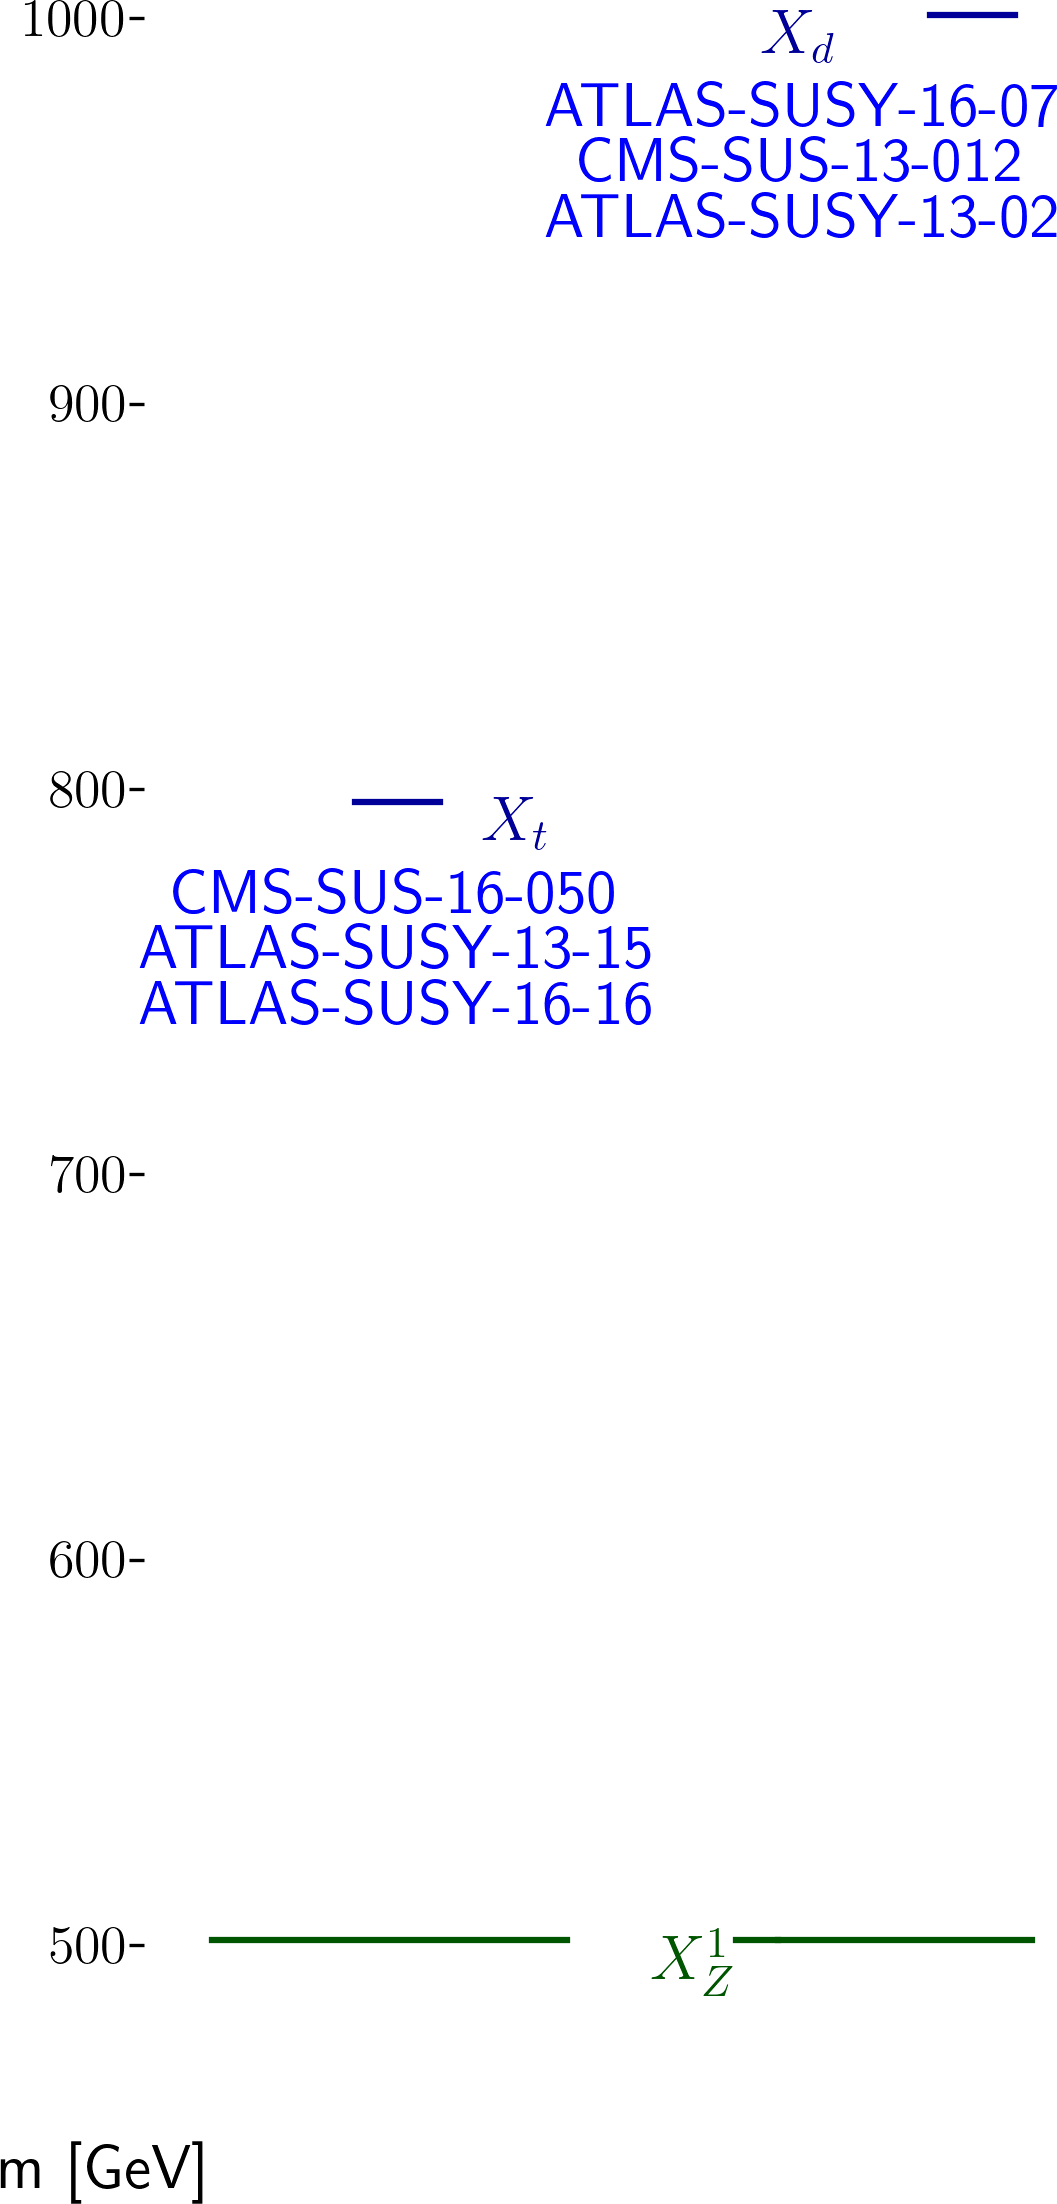
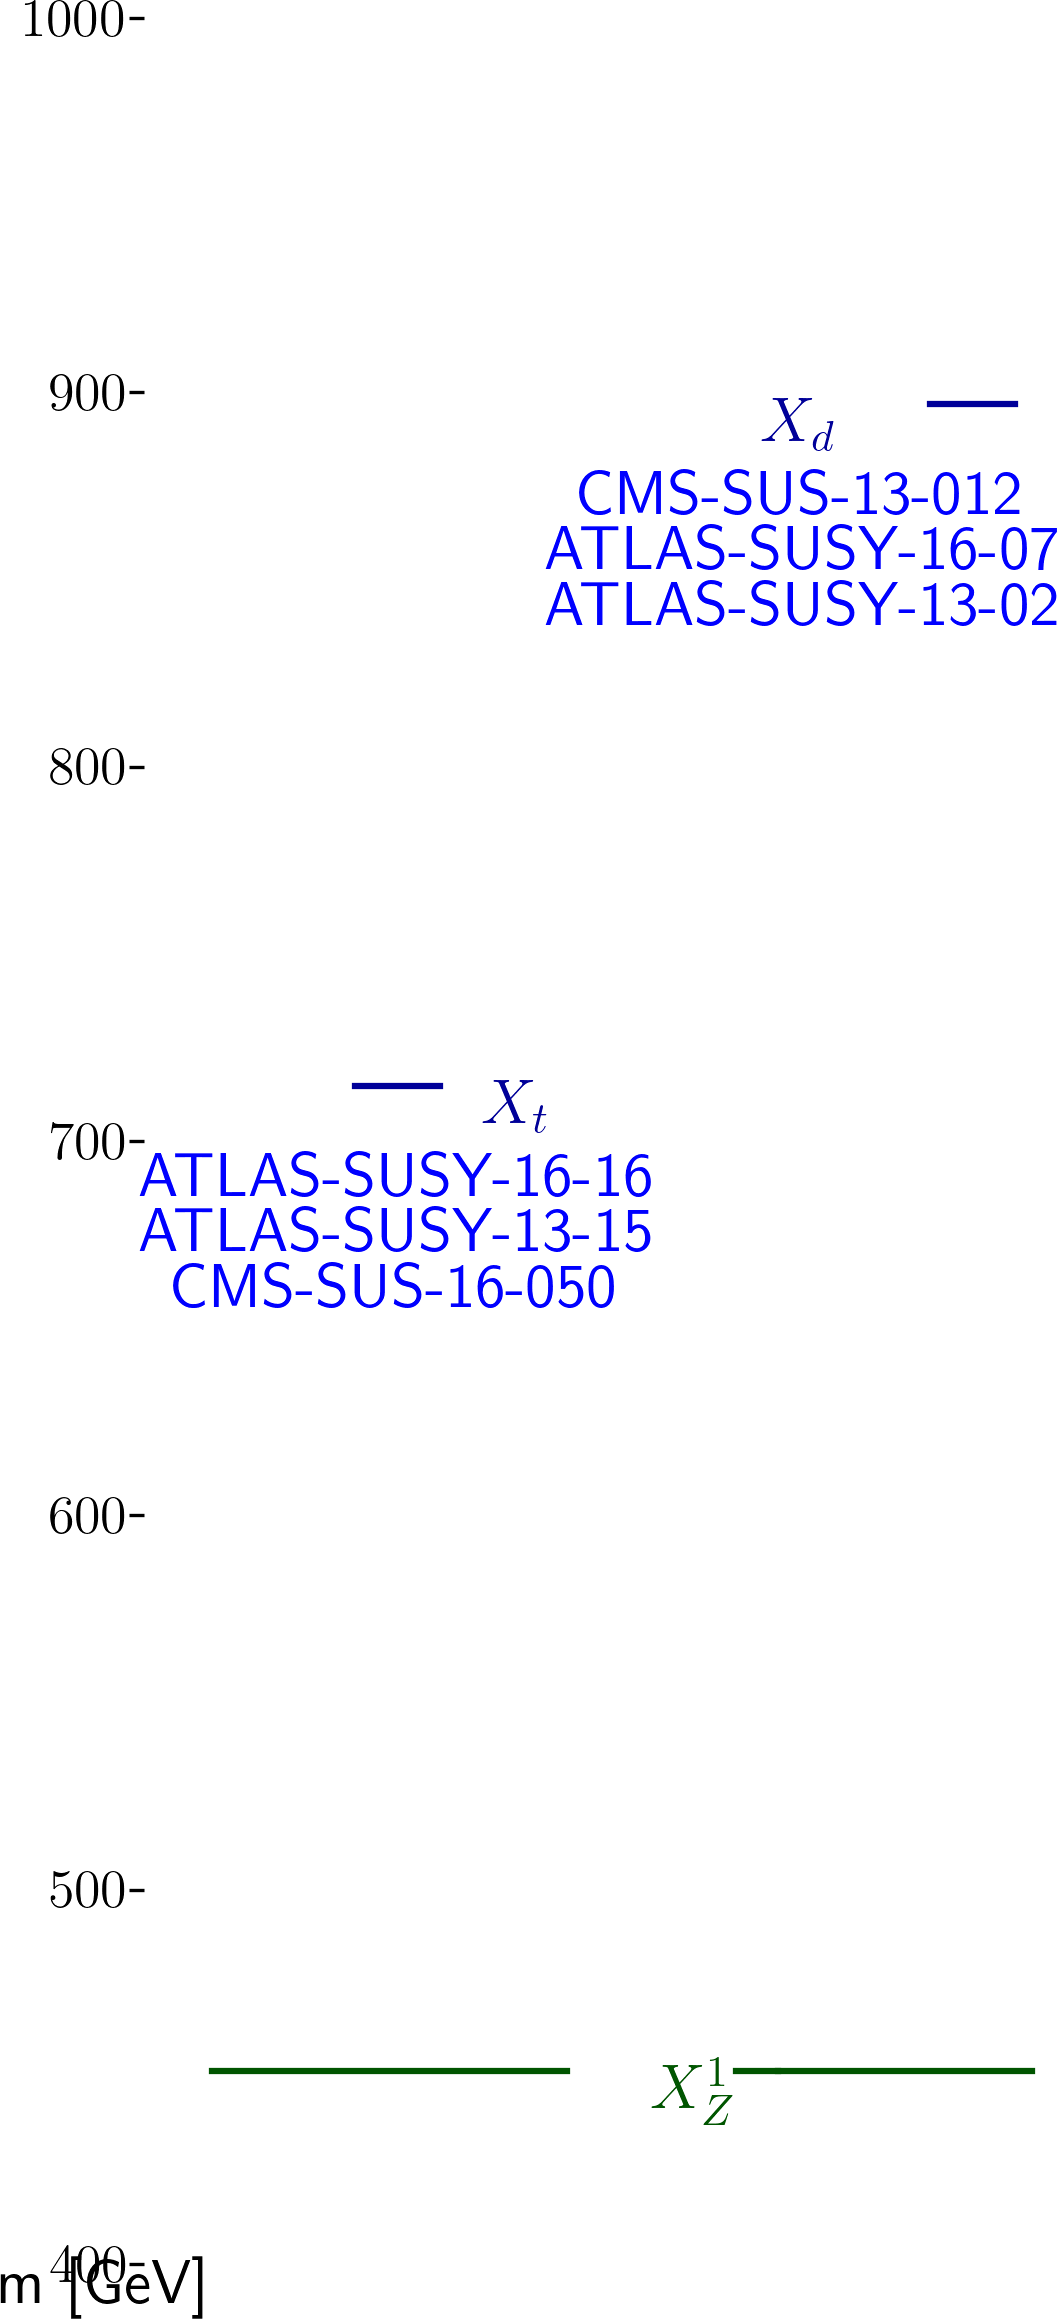
automated update by plotHiscore.py to /scratch-cbe/users/wolfgan.waltenberger/git/smodels.github.io/protomodels

diff --git a/protomodels/2020_PioneerStudy/real1/index.html b/protomodels/2020_PioneerStudy/real1/index.html
@@ -1,31 +1,31 @@
 <html>
 <body>
 <center>
-<table><td><h1>Current best protomodel: K=7.37</h1><td><img height=60px src=https://smodels.github.io/pics/banner.png></table>
+<table><td><h1>Current best protomodel: K=7.98</h1><td><img height=60px src=https://smodels.github.io/pics/banner.png></table>
 </center>
-<b><a href=./hiscore.slha>ProtoModel</a> <a href=./pmodel.py>(dict)</a> produced with <a href=https://smodels.github.io/docs/Validation124>database v1.2.4</a>, combination strategy <a href=./matrix_aggressive.png>aggressive</a> in walker 20 step 315.</b> K plots for: <a href=./M1000022.png?9863997>X<sub>Z</sub><sup>1</sup></a>, <a href=./M1000001.png?9863997>X<sub>d</sub></a>, <a href=./M1000006.png?9863997>X<sub>t</sub></a>. HPD plots for: <a href=./llhd1000001.png?9863997>X<sub>d</sub></a>, <a href=./llhd1000006.png?9863997>X<sub>t</sub></a>. SSM plots for: <a href=./ssm_-1000006_1000006.png?9863997>(x&#772;<sub>t</sub>,X<sub>t</sub>)</a><br>
+<b><a href=./hiscore.slha>ProtoModel</a> <a href=./pmodel.py>(dict)</a> produced with <a href=https://smodels.github.io/docs/Validation124>database v1.2.4</a>, combination strategy <a href=./matrix_aggressive.png>aggressive</a> in walker 29 step 302.</b> K plots for: <a href=./M1000022.png?14864454>X<sub>Z</sub><sup>1</sup></a>, <a href=./M1000001.png?14864454>X<sub>d</sub></a>, <a href=./M1000006.png?14864454>X<sub>t</sub></a>. HPD plots for: <a href=./llhd1000001.png?14864454>X<sub>d</sub></a>, <a href=./llhd1000006.png?14864454>X<sub>t</sub></a>. SSM plots for: <a href=./ssm_-1000006_1000006.png?14864454>(x&#772;<sub>t</sub>,X<sub>t</sub>)</a><br>
 <table width=80%>
 <tr><td>
-<br><b>31 predictions available. Highest r values are:</b><br><ul>
-<li><a href=http://cms-results.web.cern.ch/cms-results/public-results/publications/SUS-19-006/index.html>CMS-SUS-19-006</a>:T2tt r=1.30, r<sub>exp</sub>=0.81<br>
-<li><a href=http://cms-results.web.cern.ch/cms-results/public-results/publications/SUS-19-006/index.html>CMS-SUS-19-006</a>:T2 r=1.19, r<sub>exp</sub>=1.07<br>
-<li><a href=http://cms-results.web.cern.ch/cms-results/public-results/publications/SUS-16-033/index.html>CMS-SUS-16-033</a>:T2 r=1.06, r<sub>exp</sub>=0.78<br>
-<li><a href=http://cms-results.web.cern.ch/cms-results/public-results/publications/SUS-16-049/index.html>CMS-SUS-16-049</a>:T2tt r=0.86, r<sub>exp</sub>=0.70<br>
-<li><a href=http://cms-results.web.cern.ch/cms-results/public-results/publications/SUS-16-036/index.html>CMS-SUS-16-036</a>:T2 r=0.84, r<sub>exp</sub>=0.74<br>
+<br><b>33 predictions available. Highest r values are:</b><br><ul>
+<li><a href=http://cms-results.web.cern.ch/cms-results/public-results/publications/SUS-19-006/index.html>CMS-SUS-19-006</a>:T2 r=1.30, r<sub>exp</sub>=1.15<br>
+<li><a href=http://cms-results.web.cern.ch/cms-results/public-results/publications/SUS-16-033/index.html>CMS-SUS-16-033</a>:T2 r=1.30, r<sub>exp</sub>=0.88<br>
+<li><a href=http://cms-results.web.cern.ch/cms-results/public-results/publications/SUS-19-006/index.html>CMS-SUS-19-006</a>:T2tt r=1.28, r<sub>exp</sub>=0.78<br>
+<li><a href=http://cms-results.web.cern.ch/cms-results/public-results/publications/SUS-16-036/index.html>CMS-SUS-16-036</a>:T2 r=1.00, r<sub>exp</sub>=0.76<br>
+<li><a href=http://cms-results.web.cern.ch/cms-results/public-results/publications/SUS-16-049/index.html>CMS-SUS-16-049</a>:T2tt r=0.67, r<sub>exp</sub>=0.61<br>
 </ul>
 <td><br><b>K values without analyses: (contribution)</b><br>
 <ul>
-<li> <a href=http://cms-results.web.cern.ch/cms-results/public-results/publications/SUS-16-050/index.html>CMS-SUS-16-050</a>: 3.57 (13%)
-<li> <a href=https://twiki.cern.ch/twiki/bin/view/CMSPublic/PhysicsResultsSUS13012>CMS-SUS-13-012</a>: 3.57 (13%)
-<li> <a href=https://atlas.web.cern.ch/Atlas/GROUPS/PHYSICS/PAPERS/SUSY-2013-02/>ATLAS-SUSY-2013-02</a>: 3.51 (13%)
-<li> <a href=https://atlas.web.cern.ch/Atlas/GROUPS/PHYSICS/PAPERS/SUSY-2013-15/>ATLAS-SUSY-2013-15</a>: 3.13 (14%)
-<li> <a href=https://atlas.web.cern.ch/Atlas/GROUPS/PHYSICS/PAPERS/SUSY-2016-16/>ATLAS-SUSY-2016-16</a>: 1.66 (19%)
-<li> <a href=https://atlas.web.cern.ch/Atlas/GROUPS/PHYSICS/PAPERS/SUSY-2016-07/>ATLAS-SUSY-2016-07</a>: -1.00 (28%)
-<td><img width=600px src=./texdoc.png?1602863997>
-<br><font size=-1>Last updated: Fri Oct 16 17:59:57 2020</font>
+<li> <a href=https://twiki.cern.ch/twiki/bin/view/CMSPublic/PhysicsResultsSUS13012>CMS-SUS-13-012</a>: 3.48 (13%)
+<li> <a href=http://cms-results.web.cern.ch/cms-results/public-results/publications/SUS-16-050/index.html>CMS-SUS-16-050</a>: 3.48 (13%)
+<li> <a href=https://atlas.web.cern.ch/Atlas/GROUPS/PHYSICS/PAPERS/SUSY-2013-02/>ATLAS-SUSY-2013-02</a>: 3.40 (14%)
+<li> <a href=https://atlas.web.cern.ch/Atlas/GROUPS/PHYSICS/PAPERS/SUSY-2013-15/>ATLAS-SUSY-2013-15</a>: 3.19 (14%)
+<li> <a href=https://atlas.web.cern.ch/Atlas/GROUPS/PHYSICS/PAPERS/SUSY-2016-16/>ATLAS-SUSY-2016-16</a>: 1.53 (19%)
+<li> <a href=https://atlas.web.cern.ch/Atlas/GROUPS/PHYSICS/PAPERS/SUSY-2016-07/>ATLAS-SUSY-2016-07</a>: -1.10 (27%)
+<td><img width=600px src=./texdoc.png?1607864454>
+<br><font size=-1>Last updated: Sun Dec 13 14:00:54 2020</font>
 </table><table style="width:80%">
-<td width=45%><img height=580px src=./ruler.png?1602863997><td width=55%><img height=380px src=./decays.png?1602863997>
-<font size=-3><iframe type="text/html" height="220px" width="100%s" frameborder="0" src="./rawnumbers.html?1602863997"></iframe></font>
+<td width=45%><img height=580px src=./ruler.png?1607864454><td width=55%><img height=380px src=./decays.png?1607864454>
+<font size=-3><iframe type="text/html" height="220px" width="100%s" frameborder="0" src="./rawnumbers.html?1607864454"></iframe></font>
 </table>
 </body>
 </html>

diff --git a/protomodels/2020_PioneerStudy/real1/rawnumbers.html b/protomodels/2020_PioneerStudy/real1/rawnumbers.html
@@ -5,6 +5,6 @@
 <tr><td><a href=https://atlas.web.cern.ch/Atlas/GROUPS/PHYSICS/PAPERS/SUSY-2013-15/>ATLAS-SUSY-2013-15</a></td><td>em</td> <td>tNboost</td><td>T2tt</td><td>5</td><td>3.3 +/- 0.7</td><td style="text-align:right">0.9 &sigma;</td><td style="text-align:right">X<sub>t</sub></td></tr>
 <tr><td><a href=https://atlas.web.cern.ch/Atlas/GROUPS/PHYSICS/PAPERS/SUSY-2016-07/>ATLAS-SUSY-2016-07</a></td><td>em</td> <td>2j_Meff_1200</td><td>T2</td><td>611</td><td>526 +/- 31</td><td style="text-align:right">2.2 &sigma;</td><td style="text-align:right">X<sub>d</sub></td></tr>
 <tr><td><a href=https://atlas.web.cern.ch/Atlas/GROUPS/PHYSICS/PAPERS/SUSY-2016-16/>ATLAS-SUSY-2016-16</a></td><td>em</td> <td>tN_med</td><td>T2tt</td><td>50</td><td>36.3 +/- 6.6</td><td style="text-align:right">1.5 &sigma;</td><td style="text-align:right">X<sub>t</sub></td></tr>
-<tr><td><a href=https://twiki.cern.ch/twiki/bin/view/CMSPublic/PhysicsResultsSUS13012>CMS-SUS-13-012</a></td><td>ul</td> <td>-</td><td>T2</td><td> 23.8 fb </td><td> 15.0 fb</td><td style="text-align:right">1.2 &sigma;</td><td style="text-align:right">X<sub>d</sub></td></tr>
-<tr><td><a href=http://cms-results.web.cern.ch/cms-results/public-results/publications/SUS-16-050/index.html>CMS-SUS-16-050</a></td><td>ul</td> <td>-</td><td>T2tt</td><td> 112.5 fb </td><td> 50.7 fb</td><td style="text-align:right">2.4 &sigma;</td><td style="text-align:right">X<sub>t</sub></td></tr>
+<tr><td><a href=https://twiki.cern.ch/twiki/bin/view/CMSPublic/PhysicsResultsSUS13012>CMS-SUS-13-012</a></td><td>ul</td> <td>-</td><td>T2</td><td> 37.9 fb </td><td> 23.2 fb</td><td style="text-align:right">1.2 &sigma;</td><td style="text-align:right">X<sub>d</sub></td></tr>
+<tr><td><a href=http://cms-results.web.cern.ch/cms-results/public-results/publications/SUS-16-050/index.html>CMS-SUS-16-050</a></td><td>ul</td> <td>-</td><td>T2tt</td><td> 242.2 fb </td><td> 100.4 fb</td><td style="text-align:right">2.8 &sigma;</td><td style="text-align:right">X<sub>t</sub></td></tr>
 </table>

diff --git a/protomodels/2020_PioneerStudy/real1/pmodel.py b/protomodels/2020_PioneerStudy/real1/pmodel.py
@@ -1,1 +1,1 @@
-{'masses': {1000022: 491.285, 1000001: 990.912, 1000006: 786.555}, 'ssmultipliers': {(1000022, 1000022): 0.822, (1000001, 1000001): 1.607, (-1000001, 1000001): 2.463, (-1000001, -1000001): 2.325, (1000001, 1000022): 2.463, (-1000001, 1000022): 2.463, (1000006, 1000006): 0.905, (-1000006, 1000006): 0.905, (-1000006, -1000006): 0.905, (1000006, 1000022): 0.905, (-1000006, 1000022): 0.905, (1000001, 1000006): 0.905, (-1000006, 1000001): 0.905, (-1000001, 1000006): 0.905, (-1000006, -1000001): 0.905}, 'decays': {1000022: {}, 1000001: {(1000022, 1): 1.0}, 1000006: {(1000022, 6): 1.0}}, 'timestamp': 'Fri Oct 16 17:59:19 2020', 'Z': 3.304, 'K': 7.37, 'walkerid': 20, 'step': 315, 'codever': '1.0', 'dbver': '1.2.4'}
+{'masses': {1000022: 441.552, 1000006: 704.706, 1000001: 886.93}, 'ssmultipliers': {(1000022, 1000022): 0.494, (1000006, 1000006): 0.606, (-1000006, 1000006): 0.73, (-1000006, -1000006): 0.606, (1000006, 1000022): 0.606, (-1000006, 1000022): 0.606, (1000001, 1000001): 0.0, (-1000001, 1000001): 1.896, (-1000001, -1000001): 1.896, (1000001, 1000022): 0.0, (-1000001, 1000022): 1.896, (1000001, 1000006): 1.883, (-1000001, 1000006): 2.641, (-1000006, 1000001): 2.104, (-1000006, -1000001): 1.205}, 'decays': {1000022: {}, 1000006: {(1000022, 6): 1.0}, 1000001: {(1000022, 1): 1.0}}, 'timestamp': 'Sun Dec 13 14:00:45 2020', 'Z': 3.393, 'K': 7.985, 'walkerid': 29, 'step': 302, 'codever': '1.0', 'dbver': '1.2.4'}
